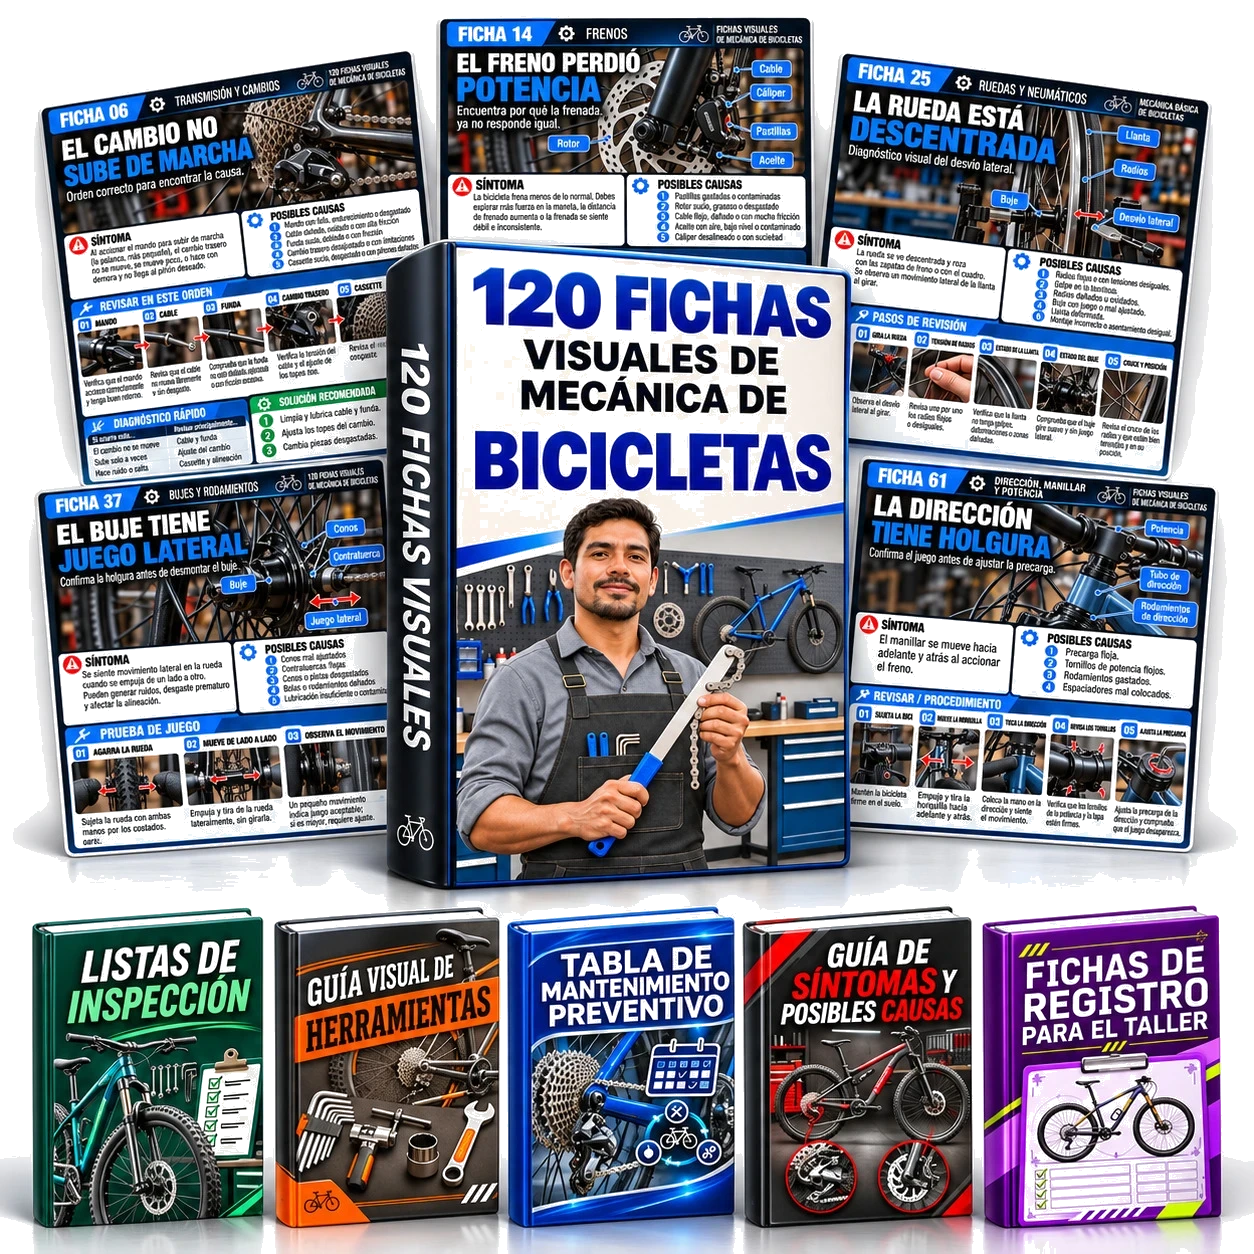
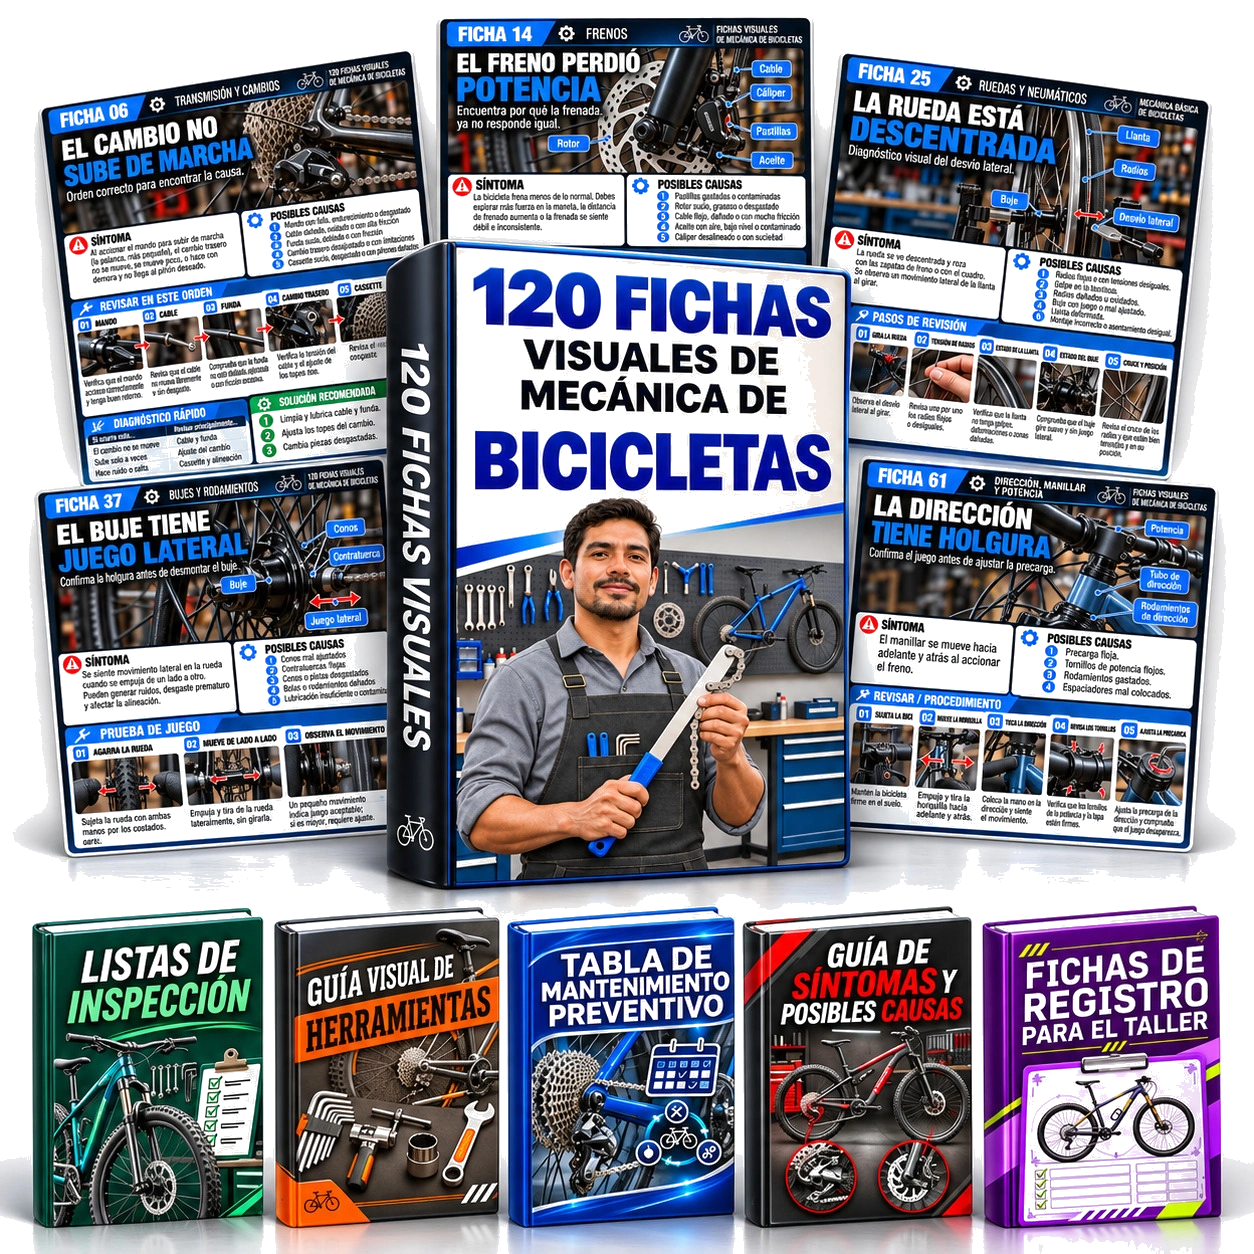
Add files via upload

diff --git a/index.html b/index.html
@@ -20,9 +20,9 @@ a{color:inherit;text-decoration:none}
 button{font-family:inherit;cursor:pointer}
 img{max-width:100%;height:auto}
 .wrap{max-width:1024px;margin:0 auto;padding:0 16px}
-.urgency{background:#C81E1E;color:rgba(255,255,255,.98);font-size:13px;padding:10px 8px;text-align:center;text-transform:uppercase;letter-spacing:.04em;font-weight:700;line-height:1.4;border-bottom:1px solid rgba(0,0,0,.15);display:flex;flex-wrap:nowrap;justify-content:center;align-items:center;gap:8px;white-space:nowrap;overflow:hidden}
+.urgency{background:#C81E1E;color:rgba(255,255,255,.98);font-size:15px;padding:12px 8px;text-align:center;text-transform:uppercase;letter-spacing:.04em;font-weight:700;line-height:1.4;border-bottom:1px solid rgba(0,0,0,.15);display:flex;flex-wrap:nowrap;justify-content:center;align-items:center;gap:8px;white-space:nowrap;overflow:hidden}
 .urgency .timer{color:#fff;font-weight:900;font-size:19px;font-variant-numeric:tabular-nums;margin-left:0;white-space:nowrap;flex:0 0 auto;min-width:86px;text-align:center;display:inline-block}
-@media(max-width:640px){.urgency{font-size:9px;padding:6px 4px;letter-spacing:0;gap:4px}.urgency .timer{font-size:12px;min-width:70px}}
+@media(max-width:640px){.urgency{font-size:11.5px;padding:8px 6px;letter-spacing:.02em;gap:6px}.urgency .timer{font-size:12px;min-width:70px}}
 .hero{background:radial-gradient(ellipse 70% 55% at 50% -5%,rgba(0,163,255,.10),transparent 70%),linear-gradient(180deg,#ffffff 0%,#f7f9fc 55%,#eef2f7 100%);color:#1e293b;position:relative;overflow:hidden;padding:40px 0 64px}
 .hero::after{content:"";position:absolute;inset:0;background:linear-gradient(180deg,rgba(255,255,255,0) 0%,rgba(241,245,249,.55) 100%);pointer-events:none;z-index:0}
 .hero-inner{position:relative;z-index:1;max-width:1024px;margin:0 auto;padding:0 16px;display:flex;flex-direction:column;align-items:center;text-align:center}
@@ -161,7 +161,6 @@ section{padding:40px 0}
 .price-grid{display:grid;gap:32px;max-width:896px;margin:0 auto}
 .price-card{background:#fff;color:#0f172a;border-radius:16px;padding:32px;display:flex;flex-direction:column;margin-top:32px;border:1px solid #e2e8f0;box-shadow:0 12px 32px rgba(15,23,42,.08)}
 .price-card.pro{background:linear-gradient(165deg,#010409 0%,#030a18 50%,#0A1628 100%);color:#fff;border:2px solid #00A3FF;box-shadow:0 25px 50px rgba(0,0,0,.5);position:relative;overflow:hidden}
-.price-card.pro::after{content:"";position:absolute;top:0;left:0;width:60%;height:100%;background:linear-gradient(100deg,transparent,rgba(255,255,255,.13),transparent);transform:translateX(-160%) skewX(-20deg);animation:cardShine 3.5s ease-in-out infinite;pointer-events:none;z-index:1}
 @keyframes borderGlow{0%,100%{box-shadow:0 25px 50px rgba(0,0,0,.5),0 0 0 2px rgba(0,163,255,.35)}50%{box-shadow:0 25px 50px rgba(0,0,0,.6),0 0 24px rgba(0,163,255,.65),0 0 0 3px rgba(0,163,255,.8)}}
 @keyframes cardShine{0%{transform:translateX(-160%) skewX(-20deg)}55%,100%{transform:translateX(280%) skewX(-20deg)}}
 .price-card.pro>*{position:relative;z-index:2}
@@ -232,7 +231,7 @@ footer .fd{font-size:13px;color:#475569;max-width:640px;margin:0 auto 32px;line-
 @keyframes testiMq{0%{transform:translateX(0)}100%{transform:translateX(-50%)}}</style>
 </head>
 <body>
-<div class="urgency"><span>🔥 ¡HOY (<span id="urgencyDate"></span>) ES EL ÚLTIMO DÍA DE LA PROMOCIÓN! 🔥</span></div>
+<div class="urgency"><span>⏰¡ÚLTIMO DÍA! La oferta especial termina hoy, <span id="urgencyDate"></span></span></div>
 <section class="hero"><div class="hero-inner">
 <h1><span>120 FICHAS VISUALES</span><br><span>DE MECÁNICA DE</span><br><span>BICICLETAS</span></h1>
 <img class="mockup-img" src="mockup-hero-t.webp" alt="Mockup del producto con fichas reales visibles de mecánica de bicicletas" width="980" height="996" fetchpriority="high" decoding="async" style="aspect-ratio:980/996">
@@ -245,9 +244,9 @@ footer .fd{font-size:13px;color:#475569;max-width:640px;margin:0 auto 32px;line-
 
 <section class="sec-light" style="padding:28px 16px 0"><div style="max-width:768px;margin:0 auto">
 <div class="stats-bar">
-<div class="stat"><span class="stat-e">👨🔧</span><div class="stat-t"><strong>+500</strong><span>Mecánicos ya lo usan</span></div></div>
-<div class="stat"><span class="stat-e">⭐</span><div class="stat-t"><strong>4.9/5</strong><span>Valoración de clientes</span></div></div>
-<div class="stat"><span class="stat-e">💬</span><div class="stat-t"><strong>+100</strong><span>Opiniones recibidas</span></div></div>
+<div class="stat"><div class="stat-t"><strong style="color:#16A34A">+500</strong><span>Mecánicos ya lo usan</span></div></div>
+<div class="stat"><div class="stat-t"><strong style="color:#16A34A">4.9/5</strong><span>Valoración de clientes</span></div></div>
+<div class="stat"><div class="stat-t"><strong style="color:#16A34A">+100</strong><span>Opiniones recibidas</span></div></div>
 </div>
 <img src="taller-demo.webp" alt="Mecánico consulta la ficha en su taller" width="1100" height="825" loading="lazy" decoding="async" style="width:100%;height:auto;display:block;border-radius:16px;aspect-ratio:1100/825"></div></section>
 
@@ -271,17 +270,17 @@ footer .fd{font-size:13px;color:#475569;max-width:640px;margin:0 auto 32px;line-
 </div></section>
 
 <section id="pricing" class="pricing"><div class="wrap">
-<div style="text-align:center;margin-bottom:24px"><h2 class="center-title" style="color:#1E40AF;font-size:26px;margin-bottom:0">ASÍ SE USAN LAS FICHAS EN EL TALLER</h2></div>
-<div class="testi-outer" style="margin-bottom:24px"><div class="testi-track">
+<div style="text-align:center;margin-bottom:24px"><h2 class="center-title" style="color:#1E40AF;font-size:26px;margin-bottom:0">LO QUE DICEN LOS MECÁNICOS SOBRE LAS 120 FICHAS</h2></div>
+<div class="testi-outer" style="margin-bottom:48px"><div class="testi-track">
 <div style="background:#fff;border:1px solid #e2e8f0;border-radius:12px;padding:20px;display:flex;gap:16px;align-items:flex-start"><div style="width:72px;height:72px;border-radius:50%;flex-shrink:0;overflow:hidden"><img src="testimonio-1.webp" alt="Carlos Rodríguez" style="width:100%;height:100%;object-fit:cover"></div><div><div style="font-weight:800;color:#0f172a;font-size:14px">Carlos Rodríguez</div><div style="font-size:12px;color:#64748b;margin-bottom:4px">Medellín, Colombia</div><div style="color:#f59e0b;font-size:14px;margin-bottom:6px">★★★★★</div><p style="font-size:13px;color:#475569;line-height:1.5;margin:0">"Me gustó que las fichas muestran las posibles causas y qué revisar primero. Es una forma más organizada de trabajar."</p></div></div>
 <div style="background:#fff;border:1px solid #e2e8f0;border-radius:12px;padding:20px;display:flex;gap:16px;align-items:flex-start"><div style="width:72px;height:72px;border-radius:50%;flex-shrink:0;overflow:hidden"><img src="testimonio-2.webp" alt="Javier Morales" style="width:100%;height:100%;object-fit:cover"></div><div><div style="font-weight:800;color:#0f172a;font-size:14px">Javier Morales</div><div style="font-size:12px;color:#64748b;margin-bottom:4px">Guadalajara, México</div><div style="color:#f59e0b;font-size:14px;margin-bottom:6px">★★★★★</div><p style="font-size:13px;color:#475569;line-height:1.5;margin:0">"Las imágenes ayudan bastante. Ahora tengo una referencia para consultar antes de empezar a cambiar piezas."</p></div></div>
 <div style="background:#fff;border:1px solid #e2e8f0;border-radius:12px;padding:20px;display:flex;gap:16px;align-items:flex-start"><div style="width:72px;height:72px;border-radius:50%;flex-shrink:0;overflow:hidden"><img src="testimonio-3.webp" alt="Andrés Gómez" style="width:100%;height:100%;object-fit:cover"></div><div><div style="font-weight:800;color:#0f172a;font-size:14px">Andrés Gómez</div><div style="font-size:12px;color:#64748b;margin-bottom:4px">Bogotá, Colombia</div><div style="color:#f59e0b;font-size:14px;margin-bottom:6px">★★★★★</div><p style="font-size:13px;color:#475569;line-height:1.5;margin:0">"Pensé que sería otro manual lleno de texto, pero las fichas son muy visuales y fáciles de consultar."</p></div></div>
 <div style="background:#fff;border:1px solid #e2e8f0;border-radius:12px;padding:20px;display:flex;gap:16px;align-items:flex-start"><div style="width:72px;height:72px;border-radius:50%;flex-shrink:0;overflow:hidden"><img src="testimonio-4.webp" alt="Ricardo Fernández" style="width:100%;height:100%;object-fit:cover"></div><div><div style="font-weight:800;color:#0f172a;font-size:14px">Ricardo Fernández</div><div style="font-size:12px;color:#64748b;margin-bottom:4px">Monterrey, México</div><div style="color:#f59e0b;font-size:14px;margin-bottom:6px">★★★★★</div><p style="font-size:13px;color:#475569;line-height:1.5;margin:0">"Lo mejor es poder consultar las fichas directamente desde el celular mientras estoy trabajando en el taller."</p></div></div>
 <div style="background:#fff;border:1px solid #e2e8f0;border-radius:12px;padding:20px;display:flex;gap:16px;align-items:flex-start"><div style="width:72px;height:72px;border-radius:50%;flex-shrink:0;overflow:hidden"><img src="testimonio-5.webp" alt="Fernando Castillo" style="width:100%;height:100%;object-fit:cover"></div><div><div style="font-weight:800;color:#0f172a;font-size:14px">Fernando Castillo</div><div style="font-size:12px;color:#64748b;margin-bottom:4px">Cali, Colombia</div><div style="color:#f59e0b;font-size:14px;margin-bottom:6px">★★★★★</div><p style="font-size:13px;color:#475569;line-height:1.5;margin:0">"Llevo años trabajando con bicicletas y me parece útil tener los diferentes problemas organizados en un solo material."</p></div></div></div>
-<div style="text-align:center;margin-bottom:16px"><h2 class="center-title" style="color:#0F172A;font-size:24px">ELIGE CÓMO QUIERES RECIBIR LAS 120 FICHAS</h2><p style="color:#64748B;font-size:14px">Un solo pago. Material en español. Sin suscripciones.</p></div>
+<div style="text-align:center;margin-bottom:16px;margin-top:24px"><h2 class="center-title" style="color:#0F172A;font-size:24px">ELIGE CÓMO QUIERES RECIBIR LAS 120 FICHAS</h2><p style="color:#64748B;font-size:14px">Un solo pago. Material en español. Sin suscripciones.</p></div>
 <div class="price-grid">
 <div class="price-card" id="esencial"><div class="eyebrow">ACCESO ESENCIAL</div><ul class="plist" id="essentialList"></ul><div style="text-align:center;margin-bottom:16px"><div class="now" style="justify-content:center"><del style="font-size:11px;color:#94A3B8;font-weight:700;text-decoration-thickness:1.5px">US$ 12,90</del><strong style="color:#16A34A">US$ 6,90</strong></div><div style="color:#64748b;font-size:12px;font-weight:700;margin-bottom:6px">Pago único · Acceso de por vida</div><span style="display:inline-block;background:#FDE68A;color:#0F172A;font-weight:800;font-size:11px;padding:4px 12px;border-radius:999px">🌎 Paga en tu moneda local</span></div><a class="btn-outline" href="https://pay.hotmart.com/O107847107R?off=fpayv43k&amp;checkoutMode=10" target="_blank" rel="noopener">QUIERO EL ACCESO ESENCIAL</a><div style="text-align:center;color:#DC2626;font-size:12px;font-weight:800;margin-top:12px">El 93% de los compradores elige el Acceso Completo a continuación ↓</div></div>
-<div class="price-card pro"><span style="position:absolute;top:0;left:50%;transform:translateX(-50%);z-index:10;background:#00A3FF;color:#fff;font-weight:900;font-size:11px;letter-spacing:.1em;padding:6px 18px;border-radius:0 0 10px 10px;box-shadow:0 6px 16px rgba(0,0,0,.35);white-space:nowrap">MÁS VENDIDO</span><div class="eyebrow blue">ACCESO COMPLETO</div><div class="price-thumb complete-img"><img src="completo-novo.webp" alt="Kit completo: 120 fichas visuales más los 4 bonos" width="620" height="616" loading="lazy" decoding="async" style="aspect-ratio:894/888"></div><ul class="plist" id="completeList"></ul><div style="text-align:center;margin-bottom:16px"><div class="now" style="justify-content:center"><del style="font-size:11px;color:#94A3B8;font-weight:700;text-decoration-thickness:1.5px">US$ 19,90</del><strong style="color:#16A34A">US$ 9,90</strong></div><div style="color:#cbd5e1;font-size:12px;font-weight:700;margin-bottom:6px">Pago único · Acceso de por vida</div><span style="display:inline-block;background:#FDE68A;color:#0F172A;font-weight:800;font-size:11px;padding:4px 12px;border-radius:999px">🌎 Paga en tu moneda local</span></div><a class="btn-block" href="https://pay.hotmart.com/O107847107R?off=i7eaq1ya&amp;checkoutMode=10" target="_blank" rel="noopener">QUIERO EL ACCESO COMPLETO</a></div>
+<div class="price-card pro"><span style="position:absolute;top:0;left:50%;transform:translateX(-50%);z-index:10;background:#00A3FF;color:#fff;font-weight:900;font-size:11px;letter-spacing:.1em;padding:6px 18px;border-radius:0 0 10px 10px;box-shadow:0 6px 16px rgba(0,0,0,.35);white-space:nowrap">MÁS VENDIDO</span><div class="eyebrow blue">ACCESO COMPLETO</div><div class="price-thumb complete-img"><img src="completo-plan.webp" alt="Kit completo: 120 fichas visuales más los 4 bonos" width="620" height="620" loading="lazy" decoding="async" style="aspect-ratio:1/1"></div><ul class="plist" id="completeList"></ul><div style="text-align:center;margin-bottom:16px"><div class="now" style="justify-content:center"><del style="font-size:11px;color:#94A3B8;font-weight:700;text-decoration-thickness:1.5px">US$ 19,90</del><strong style="color:#16A34A">US$ 9,90</strong></div><div style="color:#cbd5e1;font-size:12px;font-weight:700;margin-bottom:6px">Pago único · Acceso de por vida</div><span style="display:inline-block;background:#FDE68A;color:#0F172A;font-weight:800;font-size:11px;padding:4px 12px;border-radius:999px">🌎 Paga en tu moneda local</span></div><a class="btn-block" href="https://pay.hotmart.com/O107847107R?off=i7eaq1ya&amp;checkoutMode=10" target="_blank" rel="noopener">QUIERO EL ACCESO COMPLETO</a></div>
 </div></div></section>
 
 <section class="sec-light"><div class="guar-box"><div style="position:relative"><img src="selo-garantia-m.webp" alt="Sello 7 días garantía" class="seal-img" loading="lazy" decoding="async"></div><div class="guar-txt"><div style="color:#eab308;font-size:12px;font-weight:800;letter-spacing:.15em;text-transform:uppercase;margin-bottom:16px">GARANTÍA</div><h2 style="color:#eab308">TIENES 7 DÍAS PARA REVISAR EL MATERIAL</h2><p>Abre las fichas, mira las imágenes y comprueba si el formato te resulta útil para estudiar o consultar.</p><p>Si consideras que el producto no es para ti, puedes solicitar el reembolso del 100% dentro de los primeros 7 días.</p></div></div></section>
@@ -335,9 +334,9 @@ function bonusHTML(b){
   return '<div class="bonus"><div class="bonus-head"><img src="'+b.img+'" alt="'+b.alt+'" loading="lazy" decoding="async"></div><div class="bonus-body"><span class="tag">BONO #'+b.n+'</span><h4>'+b.h+'</h4><p>'+b.d+'</p><div class="bprice"><del>'+b.p+'</del><span>Gratis hoy</span></div></div></div>';
 }
 document.getElementById("bonusGrid").innerHTML=bonuses.map(bonusHTML).join("");
-var ess=["120 fichas visuales organizadas en 10 áreas","Imágenes, posibles causas y puntos de revisión","Material digital en español para descargar e imprimir","Consulta desde celular, tablet o computadora","Garantía de 7 días"];
+var ess=["120 fichas visuales organizadas en 10 áreas","Imágenes, posibles causas y puntos de revisión","Material digital en español para descargar","Consulta desde celular, tablet o computadora","Garantía de 7 días"];
 document.getElementById("essentialList").innerHTML=ess.map(function(s){return '<li><span style="color:#22c55e;font-weight:900">✓</span><span>'+s+'</span></li>';}).join("");
-var comp=["Todo lo incluido en el Acceso Esencial","4 bonos de consulta y organización","Material digital en español para descargar e imprimir","Consulta desde celular, tablet o computadora","Garantía de 7 días"];
+var comp=["Todo lo incluido en el Acceso Esencial","4 bonos de consulta y organización","Material digital en español para descargar","Consulta desde celular, tablet o computadora","Garantía de 7 días"];
 document.getElementById("completeList").innerHTML=comp.map(function(s){return '<li><span style="color:#22c55e;font-weight:900">✓</span><span>'+s+'</span></li>';}).join("");
 var faq=[
 ["¿Necesito experiencia en mecánica de bicicletas?","Puedes usar las fichas como apoyo si estás empezando. Las imágenes y los puntos de revisión te ayudan a reconocer componentes y entender qué comprobar. Algunas intervenciones requieren experiencia y herramientas específicas."],
@@ -369,7 +368,7 @@ var urgDate=document.getElementById("urgencyDate");
 var dias=["domingo","lunes","martes","miércoles","jueves","viernes","sábado"];
 var meses=["enero","febrero","marzo","abril","mayo","junio","julio","agosto","septiembre","octubre","noviembre","diciembre"];
 function updateDate(){
-  if(urgDate){ urgDate.textContent=dias[new Date().getDay()]+", "+new Date().getDate()+" de "+meses[new Date().getMonth()]; }
+  if(urgDate){ urgDate.textContent=new Date().getDate()+" de "+meses[new Date().getMonth()]; }
 }
 updateDate();
 setInterval(updateDate, 60000);
